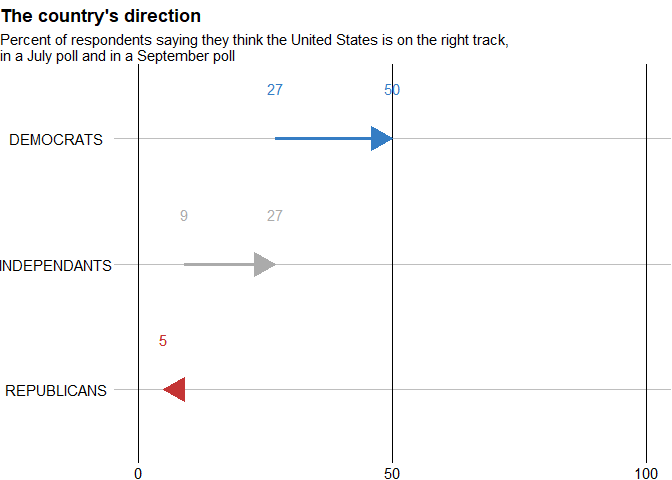
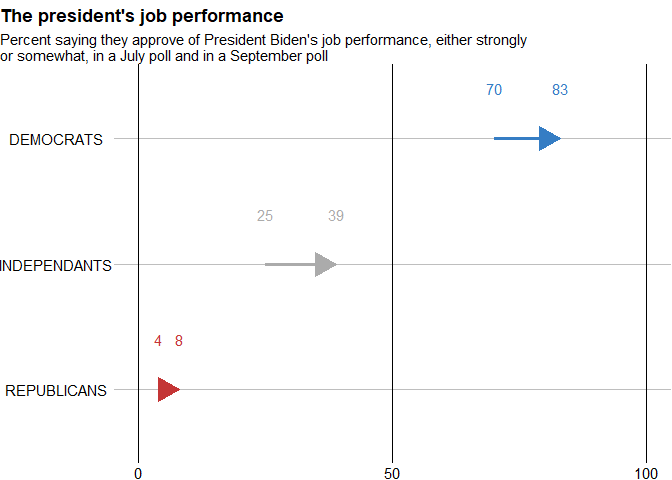
correct 2nd graph

diff --git a/R/recreate_graph_voter_sentiment.md b/R/recreate_graph_voter_sentiment.md
@@ -109,7 +109,7 @@ df2 <- df %>%
   filter(question == "president_performance")
 
 # Create the second plot
-p2 <- ggplot(df1, aes(x = percent, y = group, colour = group)) +
+p2 <- ggplot(df2, aes(x = percent, y = group, colour = group)) +
   # Add thick arrow lines 
   geom_line(size = 1.25) +
   # Add arrow heads
@@ -118,8 +118,8 @@ p2 <- ggplot(df1, aes(x = percent, y = group, colour = group)) +
   scale_x_continuous(breaks = c(0, 50, 100), limits = c(0, 100)) +
   # Specify arrow colours
   scale_colour_manual(values = c("#c43535", "#ababab", "#357dc4")) +
-  labs(title = "The country's direction",
-       subtitle = "Percent of respondents saying they think the United States is on the right track,\nin a July poll and in a September poll") +
+  labs(title = "The president's job performance",
+       subtitle = "Percent saying they approve of President Biden's job performance, either strongly \nor somewhat, in a July poll and in a September poll") +
   geom_text(aes(label = percent), nudge_y = 0.4) +
   # Start with a blank theme
   theme_void() +
